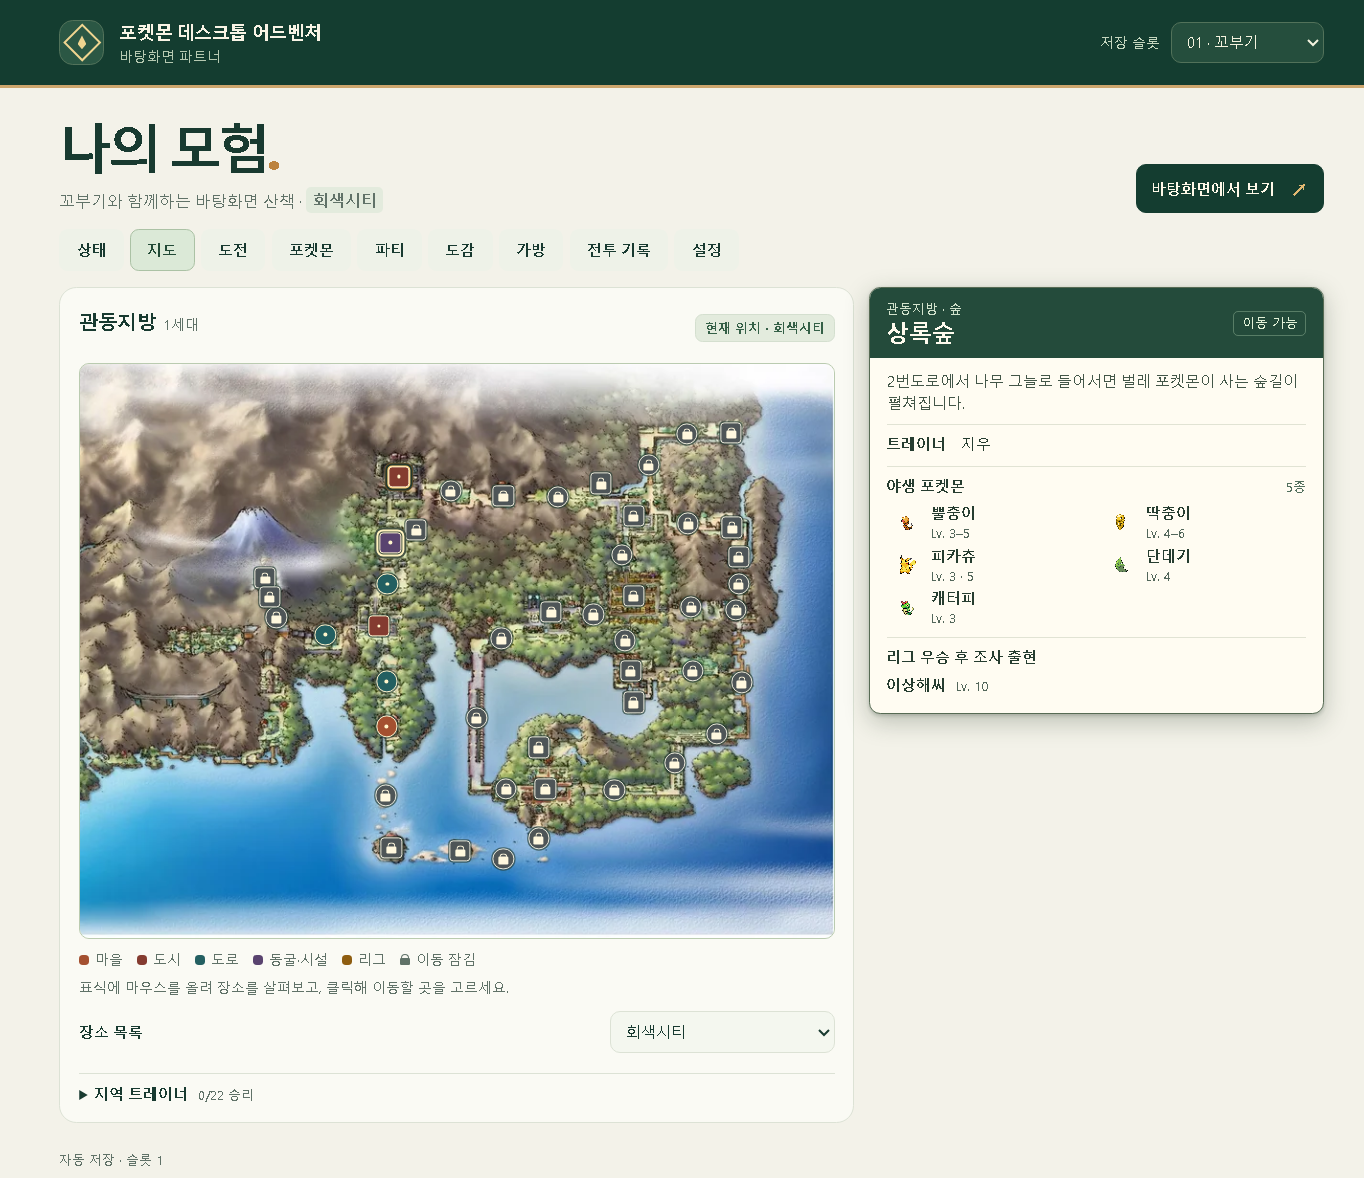
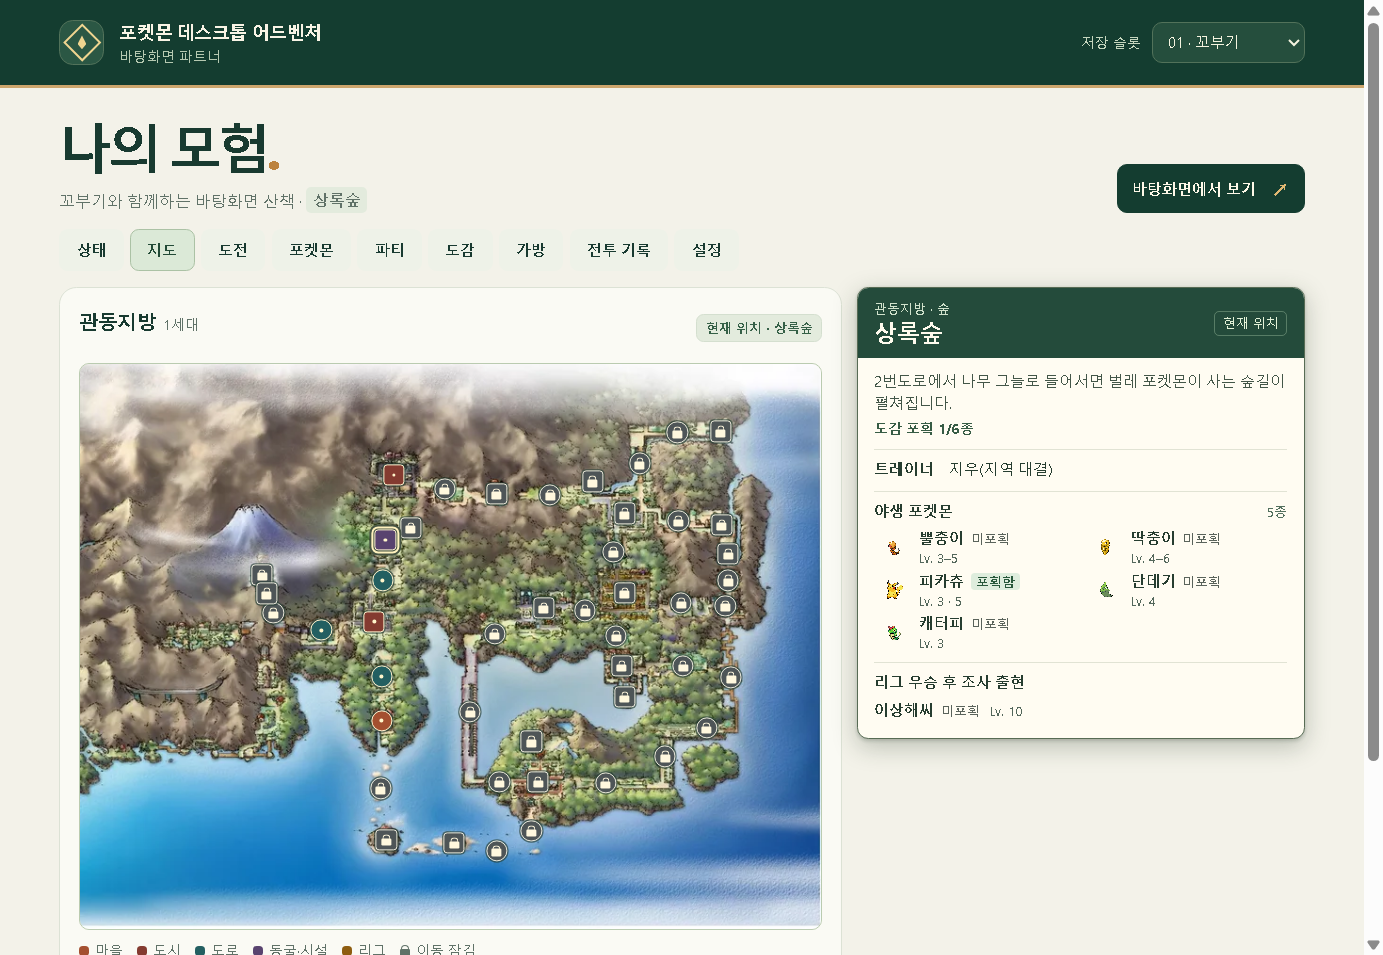
Filter automatic captures by Pokédex history and show caught species on maps

diff --git a/src/renderer/RegionMap.tsx b/src/renderer/RegionMap.tsx
@@ -15,7 +15,6 @@ import {
   kantoIllustratedPins
 } from '../game/regions/kantoIllustratedMap'
 import type { KantoLocation } from '../game/regions/kanto'
-import { species } from '../game/catalog'
 import { nextGymTrainer, KANTO_LEGENDARY_ENCOUNTER_CHANCE, type GameSave } from '../game/engine'
 import { locationAccess } from '../game/locationAccess'
 import { fieldTrainersByRegion } from '../game/regions/fieldTrainers'
@@ -24,7 +23,7 @@ import { describePlace, levelLabel, locationKinds, placeKind, rareCondition, use
 import { FieldTrainerCard } from './FieldTrainerCard'
 import { FieldTrainerDirectory } from './FieldTrainerDirectory'
 import { ChallengeActions, challengeName, type ChallengeKind } from './Campaign'
-import { Pokemon } from './shared'
+import { MapEncounterName, Pokemon } from './shared'
 import './region-map.css'
 
 const maps = {
@@ -117,16 +116,17 @@ function areaViewport(places: readonly KantoLocation[], width: number, height: n
 }
 
 function RangeList({ location, game }: { location: KantoLocation; game: GameSave }) {
-  const { entries, weather, rareEntries, available } = usePlaceEncounters(game, location)
+  const { entries, weather, rareEntries, available, caught, catchSummary } = usePlaceEncounters(game, location)
   const rareWeight = available.reduce((total, entry) => total + entry.weight, 0)
   const rarePercent = KANTO_LEGENDARY_ENCOUNTER_CHANCE * 100
   return <section className="kanto-encounters">
+    {catchSummary && <p className="map-catch-total">{catchSummary}</p>}
     <h3>일반 야생 포켓몬</h3>
     {weather && <p className="subtext">오늘의 날씨 · {weather}</p>}
     {entries.length > 0 ? <ul className="kanto-encounter-list">
       {entries.map(entry => <li key={entry.id}>
         <Pokemon id={entry.id} formId={entry.formId} />
-        <div><strong>{species[entry.id].nameKo}</strong><small>{[entry.description, levelLabel(entry.levels)].filter(Boolean).join(' · ')}</small></div>
+        <div><MapEncounterName id={entry.id} caught={caught.has(entry.id)} /><small>{[entry.description, levelLabel(entry.levels)].filter(Boolean).join(' · ')}</small></div>
         <span>{entry.percent === 0 ? '0.1% 미만' : entry.percent.toLocaleString('ko-KR') + '%'}</span>
       </li>)}
     </ul> : <p className="empty">이 장소에서는 일반 야생 포켓몬이 출현하지 않습니다.</p>}
@@ -135,7 +135,7 @@ function RangeList({ location, game }: { location: KantoLocation; game: GameSave
       <h3>리그 우승 후 조사 출현</h3>
       <p className="subtext">{game.campaign.champion ? '조사 가능' : '이 지방 우승 후 해금'} · 희귀 조우 판정 후 {RESEARCH_VISIT_CHANCE * 100}%</p>
       <ul className="kanto-encounter-list">{location.visitors!.map(mon => <li key={mon.speciesId}>
-        <Pokemon id={mon.speciesId}/><div><strong>{species[mon.speciesId].nameKo}</strong><small>Lv. {mon.level}</small></div>
+        <Pokemon id={mon.speciesId}/><div><MapEncounterName id={mon.speciesId} caught={caught.has(mon.speciesId)} /><small>Lv. {mon.level}</small></div>
       </li>)}</ul>
     </div>}
     {rareEntries.length > 0 && <div className="kanto-legendary">
@@ -144,7 +144,7 @@ function RangeList({ location, game }: { location: KantoLocation; game: GameSave
       <ul className="kanto-encounter-list">
         {rareEntries.map(entry => <li key={entry.speciesId}>
           <Pokemon id={entry.speciesId} />
-          <div><strong>{species[entry.speciesId].nameKo}</strong><small>Lv. {entry.level}</small></div>
+          <div><MapEncounterName id={entry.speciesId} caught={caught.has(entry.speciesId)} /><small>Lv. {entry.level}</small></div>
           <span>{available.some(choice => choice.speciesId === entry.speciesId) ? (rarePercent * entry.weight / rareWeight).toLocaleString('ko-KR') + '%' : rareCondition(game, location, entry)}</span>
         </li>)}
       </ul>

diff --git a/src/renderer/MapLocationTooltip.tsx b/src/renderer/MapLocationTooltip.tsx
@@ -1,12 +1,11 @@
 import { useCallback, useEffect, useId, useLayoutEffect, useRef, useState, type HTMLAttributes, type PointerEvent as ReactPointerEvent } from 'react'
 import { createPortal } from 'react-dom'
-import { species } from '../game/catalog'
 import type { GameSave } from '../game/engine'
 import { locationAccess } from '../game/locationAccess'
 import type { KantoLocation } from '../game/regions/kanto'
 import { worldRegions } from '../game/regions/world'
 import { describePlace, levelLabel, placeKind, placeTrainers, rareCondition, usePlaceEncounters } from './mapLocationGuide'
-import { Pokemon } from './shared'
+import { MapEncounterName, Pokemon } from './shared'
 
 interface Preview {
   place: KantoLocation
@@ -84,7 +83,7 @@ export function PlaceGuideContent({ game, place, neighbors = [] }: {
   game: GameSave; place: KantoLocation; neighbors?: readonly KantoLocation[]
 }) {
   const region = worldRegions[game.regionId]
-  const { entries, rareEntries, available, weather } = usePlaceEncounters(game, place)
+  const { entries, rareEntries, available, weather, caught, catchSummary } = usePlaceEncounters(game, place)
   const trainers = placeTrainers(region, place)
   const here = place.id === game.locationId
   const locked = !locationAccess(game, place.id).unlocked
@@ -96,22 +95,23 @@ export function PlaceGuideContent({ game, place, neighbors = [] }: {
     </header>
     <div className="map-guide-scroll" key={place.id}>
       <p className="map-guide-description">{describePlace(game, place)}</p>
+      {catchSummary && <p className="map-catch-total">{catchSummary}</p>}
       <section className="map-guide-trainers"><h4>트레이너</h4>
         <p>{trainers.length ? trainers.join(' · ') : '이곳에는 트레이너가 없습니다.'}</p>
       </section>
       <section><h4>야생 포켓몬 <span>{entries.length}종{weather && ' · ' + weather}</span></h4>
         {entries.length ? <ul className="map-guide-roster">{entries.map(entry => <li key={entry.id}>
           <Pokemon id={entry.id} formId={entry.formId} />
-          <div><strong>{species[entry.id].nameKo}</strong><small>{[entry.description, levelLabel(entry.levels)].filter(Boolean).join(' · ')}</small></div>
+          <div><MapEncounterName id={entry.id} caught={caught.has(entry.id)} /><small>{[entry.description, levelLabel(entry.levels)].filter(Boolean).join(' · ')}</small></div>
         </li>)}</ul> : <p>일반 야생 포켓몬이 없습니다.</p>}
       </section>
       {rareEntries.length > 0 && <section><h4>희귀 출현</h4><ul className="map-guide-special">
-        {rareEntries.map(entry => <li key={entry.speciesId}><strong>{species[entry.speciesId].nameKo}</strong>
+        {rareEntries.map(entry => <li key={entry.speciesId}><MapEncounterName id={entry.speciesId} caught={caught.has(entry.speciesId)} />
           <small>Lv. {entry.level} · {available.some(choice => choice.speciesId === entry.speciesId) ? (locked && !here ? '도착 후 출현' : '출현 가능') : rareCondition(game, place, entry)}</small></li>)}
       </ul></section>}
       {Boolean(place.visitors?.length) && <section><h4>{game.campaign.champion ? '조사 출현' : '리그 우승 후 조사 출현'}</h4>
         <ul className="map-guide-special">{place.visitors!.map(entry => <li key={entry.speciesId}>
-          <strong>{species[entry.speciesId].nameKo}</strong><small>Lv. {entry.level}</small>
+          <MapEncounterName id={entry.speciesId} caught={caught.has(entry.speciesId)} /><small>Lv. {entry.level}</small>
         </li>)}</ul>
       </section>}
       {others.length > 0 && <p className="map-guide-neighbors">같은 지점 · {others.map(other => other.name).join(' · ')}</p>}

diff --git a/tests/engine.test.ts b/tests/engine.test.ts
@@ -659,6 +659,59 @@ describe('capture and party', () => {
     expect(dispatch(restored, { type: 'update-settings', settings: { autoCaptureBall: null } })).toBe(true)
   })
 
+  it('saves the uncaught-only filter per slot and keeps the all-species default for older saves', () => {
+    const game = makeGame()
+    const oldSettings = { autoCaptureBall: 'pokeball' }
+    expect(hydrateSave({ ...game, settings: oldSettings }, 1)!.settings).toMatchObject({
+      autoCaptureBall: 'pokeball', autoCaptureUncaughtOnly: false,
+    })
+    expect(dispatch(game, { type: 'update-settings', settings: { autoCaptureUncaughtOnly: true } })).toBe(true)
+    expect(hydrateSave(JSON.parse(JSON.stringify(game)), 1)!.settings.autoCaptureUncaughtOnly).toBe(true)
+    expect(makeGame().settings.autoCaptureUncaughtOnly).toBe(false)
+  })
+
+  it('auto-catches seen but unregistered species, then spends no ball on a boxed species and keeps battling', () => {
+    const game = makeGame()
+    game.pokedexSeen.push('caterpie')
+    dispatch(game, { type: 'update-settings', settings: { autoCaptureBall: 'pokeball', autoCaptureUncaughtOnly: true } })
+    encounter(game, 'caterpie', 2)
+    tick(game, 200, bounds)
+    expect(game.pokedexCaught).toContain('caterpie')
+    expect(game.inventory.pokeball).toBe(7)
+    const instanceId = game.followers[0].instanceId
+    expect(dispatch(game, { type: 'set-follower-active', instanceId, active: false })).toBe(true)
+    const restored = hydrateSave(JSON.parse(JSON.stringify(game)), 1)!
+    expect(dispatch(restored, { type: 'travel', locationId: 'pallet-town' })).toBe(true)
+    const duplicate = encounter(restored, 'caterpie', 2)
+    tick(restored, 200, bounds)
+    expect(restored.inventory.pokeball).toBe(7)
+    expect(restored.history.filter(log => log.kind === 'capture')).toHaveLength(1)
+    expect(duplicate.currentHP).toBeLessThan(2)
+
+    expect(dispatch(restored, { type: 'travel', locationId: 'pallet-town' })).toBe(true)
+    encounter(restored, 'caterpie', 2)
+    expect(dispatch(restored, { type: 'throw-ball', itemId: 'pokeball' })).toBe(true)
+    expect(restored.inventory.pokeball).toBe(6)
+    dispatch(restored, { type: 'update-settings', settings: { autoCaptureUncaughtOnly: false } })
+    expect(dispatch(restored, { type: 'travel', locationId: 'pallet-town' })).toBe(true)
+    encounter(restored, 'caterpie', 2)
+    tick(restored, 200, bounds)
+    expect(restored.inventory.pokeball).toBe(5)
+  })
+
+  it('allows another automatic attempt on a new encounter after an uncaught species escaped the ball', () => {
+    const game = makeGame()
+    dispatch(game, { type: 'update-settings', settings: { autoCaptureBall: 'pokeball', autoCaptureUncaughtOnly: true } })
+    encounter(game, 'mewtwo', 7)
+    tick(game, 200, bounds)
+    expect(game.pokedexCaught).not.toContain('mewtwo')
+    run(game, 5)
+    expect(game.inventory.pokeball).toBe(7)
+    encounter(game, 'mewtwo', 7)
+    tick(game, 200, bounds)
+    expect(game.inventory.pokeball).toBe(6)
+  })
+
   it('keeps five independent roaming followers and stores, activates and restores overflow members', () => {
     const game = makeGame()
     for (const id of ['caterpie', 'weedle', 'pidgey', 'rattata', 'spearow', 'metapod']) {

diff --git a/tests/mapLocationGuide.test.tsx b/tests/mapLocationGuide.test.tsx
@@ -4,6 +4,7 @@ import { createGame, regionalWeather } from '../src/game/engine'
 import { species } from '../src/game/catalog'
 import { fieldTrainersByRegion } from '../src/game/regions/fieldTrainers'
 import { regionOrder, worldRegions, type RegionId } from '../src/game/regions/world'
+import { RegionMap } from '../src/renderer/RegionMap'
 import { PlaceGuideContent } from '../src/renderer/MapLocationTooltip'
 import { describePlace, placeTrainers } from '../src/renderer/mapLocationGuide'
 
@@ -21,6 +22,26 @@ function guide(game: ReturnType<typeof opening>, id: string) {
   const place = worldRegions[game.regionId].locationById[id]
   return renderToStaticMarkup(<PlaceGuideContent game={game} place={place} />)
 }
+
+const selectedMap = (game: ReturnType<typeof opening>, focus: string) =>
+  renderToStaticMarkup(<RegionMap game={game} focus={focus} busy={false} begin={() => {}} travel={() => {}} />)
+
+it.each([['지도 툴팁', guide], ['장소의 출현 목록', selectedMap]] as const)('%s marks each wild, rare and research species from the caught Pokédex', (_label, render) => {
+  const game = opening('kanto')
+  game.pokedexCaught.push('pikachu', 'mew')
+  game.pokedexSeen.push('pikachu', 'weedle', 'mew', 'bulbasaur')
+  const row = (html: string, name: string) => html.match(/<li\b[^>]*>[\s\S]*?<\/li>/g)?.find(li => li.includes('>' + name + '<'))
+  const forest = render(game, 'viridian-forest')
+  expect(forest).toContain('도감 포획 1/6종')
+  expect(row(forest, '피카츄')).toContain('포획함')
+  expect(row(forest, '뿔충이')).toContain('미포획')
+  expect(row(forest, '이상해씨')).toContain('미포획')
+  expect(row(render(game, 'pokemon-mansion'), '뮤')).toContain('포획함')
+  game.pokedexCaught.push('weedle')
+  const updated = render(game, 'viridian-forest')
+  expect(updated).toContain('도감 포획 2/6종')
+  expect(row(updated, '뿔충이')).toContain('포획함')
+})
 
 it('separates the forest encounters from post-league visitors and describes a city with no wild encounters', () => {
   const game = opening('kanto')

diff --git a/src/renderer/region-map.css b/src/renderer/region-map.css
@@ -91,7 +91,7 @@
 .kanto-encounter-list { margin: 0; padding: 0; list-style: none; max-height: 219px; overflow-y: auto; scrollbar-width: thin; }
 .kanto-encounter-list li { display: flex; align-items: center; gap: 6px; padding: 2px 6px; min-height: 39px; border-bottom: 1px solid var(--border); font-size: 11px; }
 .kanto-encounter-list .pokemon-sprite { width: 38px; height: 38px; flex: none; }
-.kanto-encounter-list li > div { display: grid; gap: 1px; flex: 1; }
+.kanto-encounter-list li > div { display: grid; gap: 1px; flex: 1; min-width: 0; }
 .kanto-encounter-list li > div small, .kanto-encounter-list li > span { color: var(--muted); font-size: 10px; }
 .kanto-legendary { margin-top: 9px; padding: 8px; background: #f2ead7; border: 1px solid #e8dbc0; border-radius: 7px; }
 .kanto-legendary li { border-bottom: 0; }
@@ -147,6 +147,12 @@ body:has(.map-location-guide[data-docked]) .kanto-place { visibility: hidden; }
 .map-guide-roster .pokemon-sprite { width: 32px; height: 32px; flex: none; object-fit: contain; }
 .map-guide-roster strong, .map-guide-special strong { font-size: 12px; font-weight: 650; }
 .map-guide-roster small, .map-guide-special small { display: block; color: #53675b; font-size: 10px; line-height: 1.3; }
+.map-guide-roster li > div { min-width: 0; }
+.map-encounter-name { display: flex; flex-wrap: wrap; align-items: center; gap: 1px 5px; }
+.map-encounter-name strong { overflow-wrap: anywhere; }
+.map-catch-status { font-size: 10px; line-height: 1.4; white-space: nowrap; color: #5a635b; }
+.map-catch-status.caught { padding: 0 4px; border-radius: 3px; color: #28583b; background: #deeddd; font-weight: 650; }
+.map-guide-scroll .map-catch-total, .kanto-encounters .map-catch-total { margin: 4px 0; color: #375c45; font-size: 11px; font-weight: 650; }
 .map-guide-special li { display: flex; align-items: baseline; gap: 8px; padding: 1px 0; }
 .map-guide-scroll .map-guide-neighbors { margin-top: 9px; padding-top: 6px; border-top: 1px solid #ddd9c5; color: #76613e; font-size: 11px; }
 

diff --git a/src/game/engine.ts b/src/game/engine.ts
@@ -75,6 +75,7 @@ const captureBallSet = new Set(captureBallIds)
 
 export interface Settings {
   autoCaptureBall: CaptureBallId | null
+  autoCaptureUncaughtOnly: boolean
   autoUseItem: string | null
   sound: boolean
   fps: 15 | 30
@@ -94,6 +95,7 @@ export interface Settings {
 
 export const defaultSettings: Settings = {
   autoCaptureBall: null,
+  autoCaptureUncaughtOnly: false,
   autoUseItem: null,
   sound: false,
   fps: 30,
@@ -2877,7 +2879,8 @@ function update(game: GameSave, elapsed: number, bounds: Bounds, decide: typeof 
       } else if (runtime.stateIn <= 0) {
         const ball = game.settings.autoCaptureBall
         if (!target.trainerId && ball && runtime.turn === 'player' && runtime.autoCaptureTargetId !== target.id &&
-            target.currentHP <= target.maxHP * AUTO_CAPTURE_HP && throwBall(game, ball)) {
+            target.currentHP <= target.maxHP * AUTO_CAPTURE_HP &&
+            (!game.settings.autoCaptureUncaughtOnly || !game.pokedexCaught.includes(target.speciesId)) && throwBall(game, ball)) {
           runtime.autoCaptureTargetId = target.id
         } else if (runtime.turn === 'player' && autoUseBattleItem(game, target)) {
           runtime.stateIn = 800
@@ -2949,7 +2952,7 @@ function hasKey(value: object, key: PropertyKey): boolean {
 }
 
 const booleanSettings = [
-  'sound', 'showPartyOnDesktop', 'overlayVisible', 'alwaysOnTop', 'autoHeal', 'autoEvolve',
+  'sound', 'autoCaptureUncaughtOnly', 'showPartyOnDesktop', 'overlayVisible', 'alwaysOnTop', 'autoHeal', 'autoEvolve',
   'effects', 'hud', 'startOnLogin', 'notifications',
 ] as const
 

diff --git a/src/renderer/mapLocationGuide.ts b/src/renderer/mapLocationGuide.ts
@@ -112,5 +112,10 @@ export function usePlaceEncounters(game: GameSave, place: KantoLocation) {
   }), [slots, game.regionId, place.id])
   const rareEntries = eligibleLegends(place, game.starterSpeciesId, true)
   const available = activeLegends(place, game.starterSpeciesId, game.campaign)
-  return { entries, weather: forecast?.weather, rareEntries, available }
+  const caught = useMemo(() => new Set(game.pokedexCaught), [game.pokedexCaught])
+  const localSpecies = new Set([...entries.map(entry => entry.id), ...rareEntries.map(entry => entry.speciesId),
+    ...(place.visitors ?? []).map(entry => entry.speciesId)])
+  const caughtCount = [...localSpecies].filter(id => caught.has(id)).length
+  const catchSummary = localSpecies.size ? '도감 포획 ' + caughtCount + '/' + localSpecies.size + '종' : ''
+  return { entries, weather: forecast?.weather, rareEntries, available, caught, catchSummary }
 }

diff --git a/src/renderer/Control.tsx b/src/renderer/Control.tsx
@@ -367,6 +367,8 @@ function SettingsPane({ game, snapshot, send }: { game: GameSave; snapshot: Adve
           {captureBallIds.map(id => <option value={id} key={id}>{items[id].nameKo}</option>)}
         </select>
       </label>
+      <Switch label="미포획 포켓몬만 자동 포획" note="도감에 포획 기록이 없는 종에게만 볼을 던집니다." checked={settings.autoCaptureUncaughtOnly}
+        onChange={autoCaptureUncaughtOnly => change({ autoCaptureUncaughtOnly })} />
       <label className="select-field"><strong>탐험 성향</strong><select value={settings.exploration} onChange={e => change({ exploration: e.target.value as Settings['exploration'] })}>
         {Object.entries(encounterOptions).map(([key, label]) => <option value={key} key={key}>{label}</option>)}
       </select></label>

diff --git a/src/renderer/shared.tsx b/src/renderer/shared.tsx
@@ -32,6 +32,12 @@ export function pokemonName(id: string, formId?: string) {
   return [species[id]?.nameKo ?? '포켓몬', formLabel(formId)].filter(Boolean).join(' · ')
 }
 
+export function MapEncounterName({ id, caught }: { id: string; caught: boolean }) {
+  return <span className="map-encounter-name"><strong>{species[id].nameKo}</strong>
+    <span className={'map-catch-status' + (caught ? ' caught' : '')}>{caught ? '포획함' : '미포획'}</span>
+  </span>
+}
+
 export function Pokemon({ id, formId, className = '', label = false }: { id: string; formId?: string; className?: string; label?: boolean }) {
   const [failedId, setFailedId] = useState('')
   const spriteId = formId ?? id

diff --git a/tests/saveLoad.test.ts b/tests/saveLoad.test.ts
@@ -138,8 +138,8 @@ describe('desktop command validation', () => {
     expect(parseCommand({ type: 'setFollowerActive', instanceId: 'caught-1', active: false })).toEqual({
       type: 'setFollowerActive', instanceId: 'caught-1', active: false
     })
-    expect(parseCommand({ type: 'settings', settings: { autoCaptureBall: 'greatBall' } })).toEqual({
-      type: 'settings', settings: { autoCaptureBall: 'greatBall' }
+    expect(parseCommand({ type: 'settings', settings: { autoCaptureBall: 'greatBall', autoCaptureUncaughtOnly: true } })).toEqual({
+      type: 'settings', settings: { autoCaptureBall: 'greatBall', autoCaptureUncaughtOnly: true }
     })
   })
 

diff --git a/src/main/commands.ts b/src/main/commands.ts
@@ -9,7 +9,7 @@ function record(value: unknown): value is Record<string, unknown> {
 }
 
 const booleanSettings = [
-  'sound', 'showPartyOnDesktop', 'overlayVisible', 'alwaysOnTop', 'autoHeal', 'autoEvolve', 'effects', 'hud', 'notifications'
+  'sound', 'autoCaptureUncaughtOnly', 'showPartyOnDesktop', 'overlayVisible', 'alwaysOnTop', 'autoHeal', 'autoEvolve', 'effects', 'hud', 'notifications'
 ] as const
 
 function parseSettings(value: unknown): Partial<Settings> | null {
